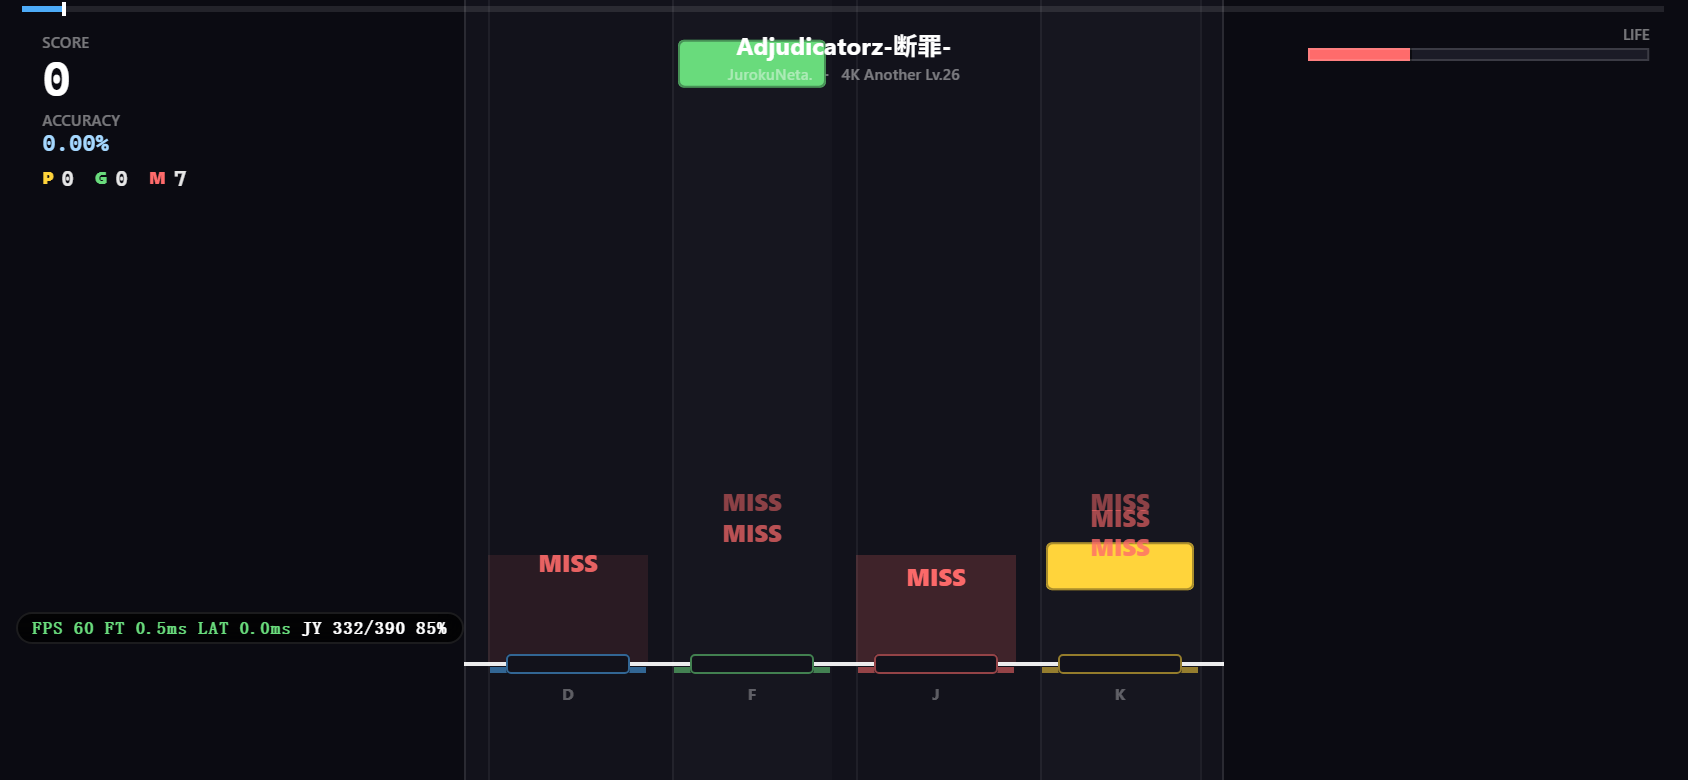
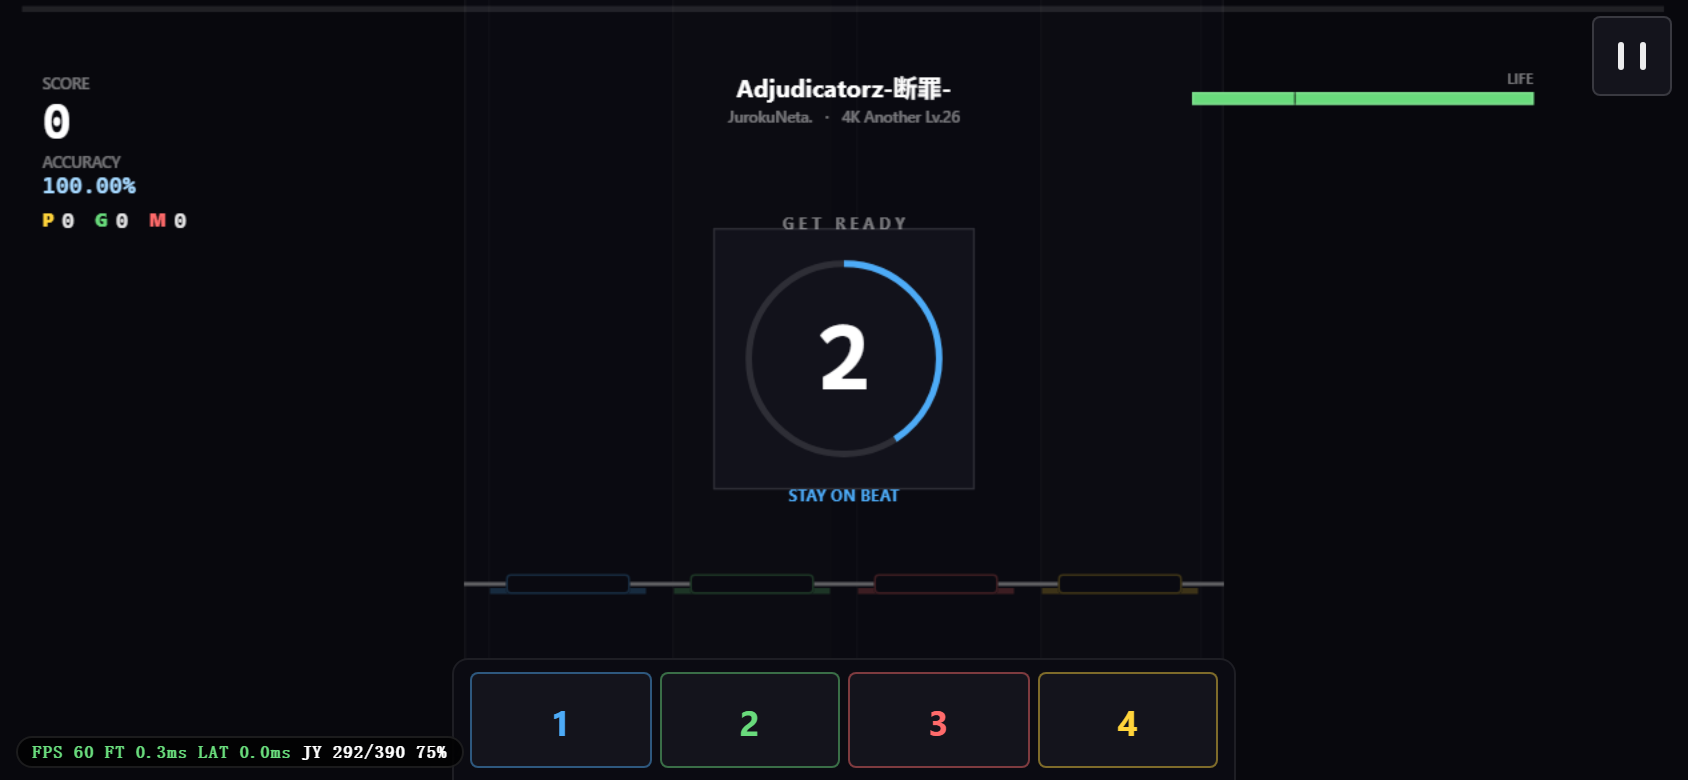
fix: 手机端 FPS 面板贴到屏幕左下角
之前手机上留了 100px（竖屏）/68px（横屏）的底部间距，看起来是浮在触控栏上方，不是左下角。

- 手机竖屏 / 小屏 / 横屏 / 平板：left 8px、bottom 6px（含 safe-area），真正贴住左下角
- 桌面保持 12px 边距
- 手机上条子会压住触控栏下沿约 16px（按钮底部边框），文字/图标不被遮挡，pointer-events: none 不影响打击
- README 同步说明，新增手机截图

验证：390x844 / 844x390 / 360x740 / 834x1194 四种手机视口 left=8、底部间距=6、条子不出屏，
与触控栏重叠仅 16px（底边），桌面仍为 12/12，19 项检查全通过。

diff --git a/css/style.css b/css/style.css
@@ -2788,8 +2788,8 @@ html.is-touch .mobile-btn::before {
 @media (max-width: 768px) and (orientation: portrait) {
     #perfMonitor {
         top: auto;
-        bottom: calc(env(safe-area-inset-bottom, 0px) + 100px);
-        left: 10px;
+        bottom: calc(env(safe-area-inset-bottom, 0px) + 6px);
+        left: 8px;
         right: auto;
         transform: none;
         font-size: 0.6rem;
@@ -3214,7 +3214,7 @@ html.is-touch .mobile-btn::before {
     /* 性能面板：放在轨道区左侧的空白处（触控栏居中，左侧不会被挡） */
     #perfMonitor {
         top: auto;
-        bottom: calc(env(safe-area-inset-bottom, 0px) + 68px);
+        bottom: calc(env(safe-area-inset-bottom, 0px) + 6px);
         left: 8px;
         transform: none;
         font-size: 0.5rem;
@@ -3255,7 +3255,7 @@ html.is-pointer-fine body.game-active:not(.paused) {
     .mobile-btns { height: 66px; gap: 4px; }
     .mobile-btn { font-size: 1.2rem; border-radius: 10px; min-height: 54px; }
 
-    #perfMonitor { bottom: calc(env(safe-area-inset-bottom, 0px) + 78px); }
+    #perfMonitor { bottom: calc(env(safe-area-inset-bottom, 0px) + 6px); }
 
     .logo { font-size: 1.2rem; }
     .start-sidebar { padding: 10px 8px; }
@@ -3291,8 +3291,8 @@ html.is-pointer-fine body.game-active:not(.paused) {
 
     #perfMonitor {
         top: auto;
-        bottom: calc(env(safe-area-inset-bottom, 0px) + 100px);
-        left: 12px;
+        bottom: calc(env(safe-area-inset-bottom, 0px) + 6px);
+        left: 8px;
         transform: none;
         font-size: 0.7rem;
         padding: 5px 16px;

diff --git a/README.md b/README.md
@@ -16,9 +16,10 @@
 - **音符样式**：FLAT（扁平块，默认）/ PIXEL（像素块），均为纯色块 + 1px 描边，可随时切换
 - **皮肤系统**：内置扁平皮肤 / **Malody V .mui 皮肤**（已接入 Yuxen 4K：轨道、音符、长条、按键；判定文字与判定线沿用本项目处理），设置页一键切换
 - **视觉特效**：方块粒子、命中判定线加粗、判定文字动画、倒计时卡片
-- **实时性能监控**：仅在对局中显示，位于左下角（手机在触控栏上方左侧，横屏在轨道区左侧空白处），
+- **实时性能监控**：仅在对局中显示，固定在**屏幕左下角**（手机竖屏/横屏都是贴边 8px，桌面 12px；
+  手机上的条子会压住触控栏下沿约 16px，横屏则在轨道区左侧空白处），
   按 `` ` `` 键切换；触屏设备连点暂停键 5 次也可开关。读数含 FPS、帧时间、音频延迟与判定线位置
-  （`JY 622/844 74%`，排查判定线位置问题时看这一项）。位置见 [桌面截图](docs/ui-fps-desktop.png) / [横屏截图](docs/ui-fps-landscape.png)
+  （`JY 622/844 74%`，排查判定线位置问题时看这一项）。位置见 [桌面](docs/ui-fps-desktop.png) / [手机](docs/ui-fps-mobile.png) / [横屏](docs/ui-fps-landscape.png) 截图
 - **数据驱动配置**：判定窗口、血量、音效参数均通过外部 JSON 配置，无需改代码
 - **纯前端运行**：无需服务器、无需数据库、零依赖，打开即玩
 - **进度反馈**：启动遮罩、曲库骨架屏、伴奏下载进度（%/大小/速度）、导入解析进度、拖拽导入、非阻塞提示
@@ -118,7 +119,7 @@ npx serve .
 | 设置页 | **三列网格**（7 个设置组）+ 顶部标题/曲目信息 + **底部固定操作条**，BACK / START 始终可见 |
 | 结算页 | **左右分栏**：左侧等级 + 分数/准确率，右侧判定统计 + 走势图；四个按钮排成一行 |
 | 排行榜 | 卡片占满高度，列表弹性滚动，排序/导入导出/返回按钮常驻底部 |
-| 游玩 | 判定线按可用高度 70% 排布；**触控栏与轨道区居中对齐**（不再固定占右侧 46%）；FPS 面板固定左下、让开轨道区与触控栏 |
+| 游玩 | 判定线按可用高度 70% 排布；**触控栏与轨道区居中对齐**（不再固定占右侧 46%）；FPS 面板固定在屏幕左下角，让开轨道区 |
 
 另外：
 
